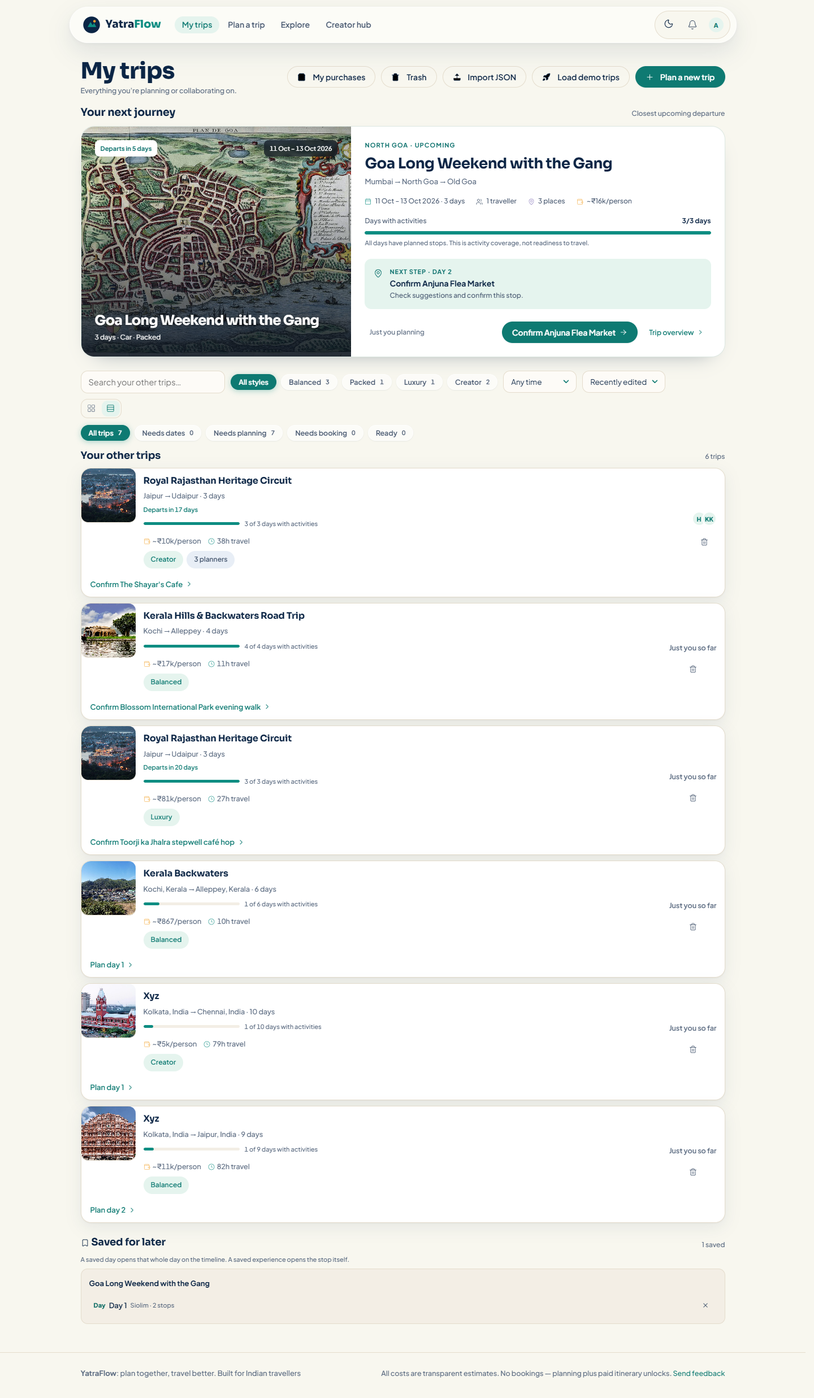
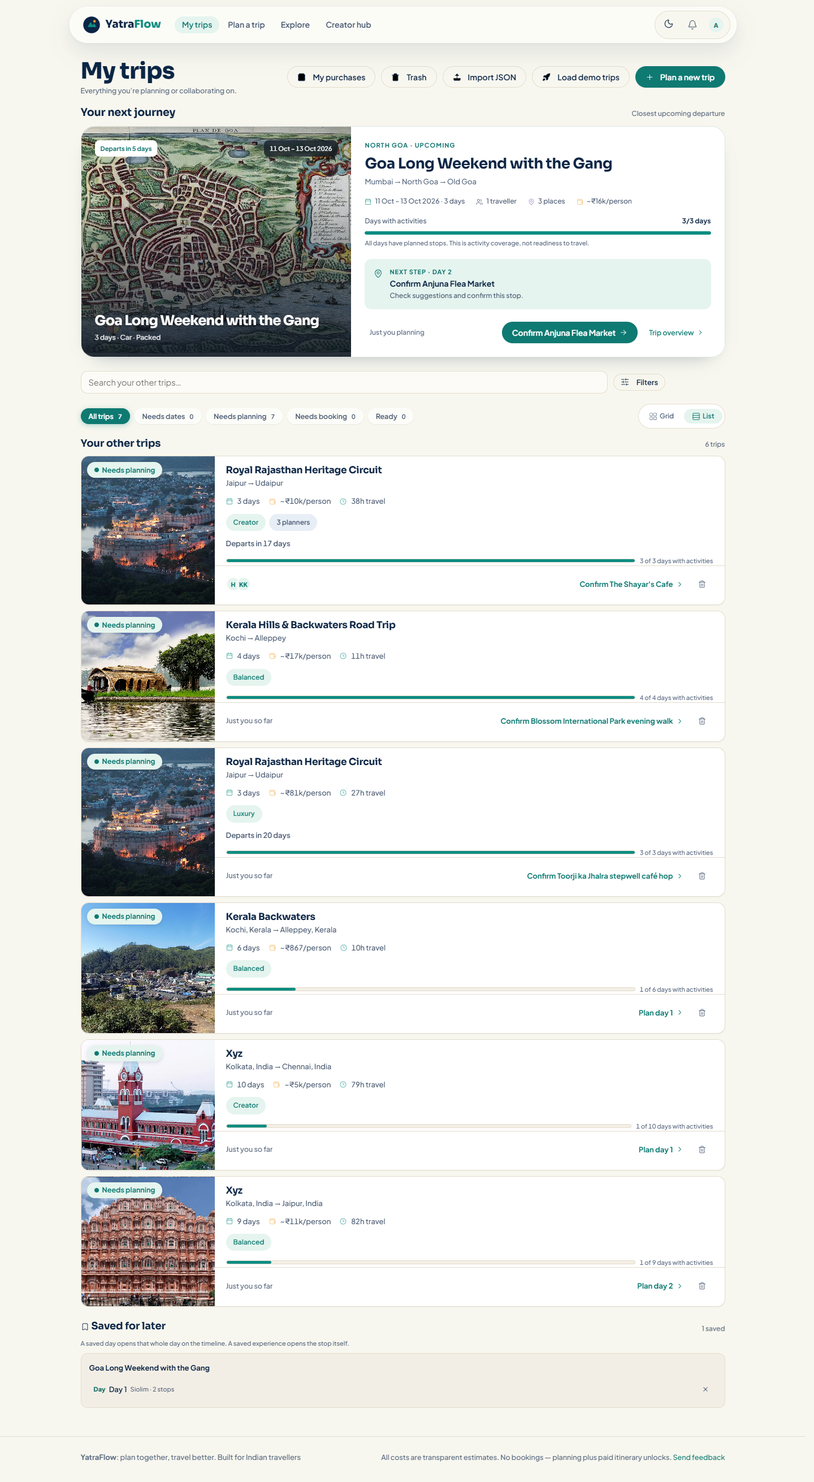
fix(trips): the view switch belongs on the tab row, and both switches move
The Grid/List control closed the wrapping filter bar, so it wrapped onto
a line of its own at every width - away from the tabs it belongs to. And
neither switch read as motion: the layout swap resized every card between
two frames, while the route entrance kept a 550ms clock but spent 63% of
its travel in the first 55ms.

- the switch moves onto the status-tab row as a labelled PillNav segment,
  right-aligned, dropping below the tabs when the width will not hold
  both. That is the mockup's own viewbar rule, measured at 1920/1100/390
  before it was written down.
- style, when and sort move behind one Filters dropdown, which is what
  let the bar stop wrapping. It opens and dismisses like the map's idea
  filters, and an inner Select's Escape closes only its own list.
- the grid is keyed by the layout, so a switch replays the cards' own
  entrance cascade instead of a snap.
- routeIn drops its raw `.55s` and cubic-bezier(.22,1,.36,1) for
  --motion-slow + --ease-out, and its grandfathered baseline entry is
  deleted - the gate's "no longer reproduces" message, acted on.
- CODING_STANDARDS 6am corrected: the ratchet keys are declaration text,
  not `styles.css:<line>`, so a comment line above a rule is safe and a
  migrated legacy value must have its entry deleted.

Measured at 1440 and 390: the seg shares the tabs' row, the glider slides
through 24 distinct boxes, the cards' opacity animates 0->1 on a switch,
[…]

diff --git a/src/pages/TripsList.tsx b/src/pages/TripsList.tsx
@@ -1,6 +1,6 @@
 // ============ My trips ============
-import { useEffect, useMemo, useState } from 'react'
-import { ArrowRight, Calendar, ChevronRight, Clock, Compass, LayoutGrid, MapPin, Plus, Rocket, Rows3, ShoppingBag, Trash2, Users, Wallet } from 'lucide-react'
+import { useEffect, useMemo, useRef, useState } from 'react'
+import { ArrowRight, Calendar, ChevronRight, Clock, Compass, LayoutGrid, MapPin, Plus, Rocket, Rows3, ShoppingBag, SlidersHorizontal, Trash2, Users, Wallet } from 'lucide-react'
 import { InlineIcon, MetaIcon } from '../components/icons'
 import { useTrips, useTrashedTrips, useUsers, useSessionUserId, useSliceReads, useTrashLoaded, useTrashFailed, tripsForUser, trashTrip, restoreTrashedTrip, restoreTrashedTripById, permanentlyDeleteTrip, fetchTrashedTrips, rereadTrips, addDemoTrips } from '../store/store'
 import { computeTotals, formatInrShort } from '../lib/engine'
@@ -8,6 +8,7 @@ import { nextTripStep, nextStepRoute, plannedDayRatio, statusBucket, isStatusBuc
 import { cap } from '../lib/labels'
 import { Avatar, Chip, EmptyState, toast, undoToast, ConfirmDialog } from '../components/ui'
 import { Select } from '../components/Select'
+import { PillNav } from '../components/PillNav'
 import { loadDraft, draftIsWorthKeeping, draftAgeLabel } from '../lib/createDraft'
 import { readinessFromDraft } from '../lib/createReadiness'
 import { createFunnelOn } from '../lib/featureFlags'
@@ -137,6 +138,38 @@ export function TripsListPage({ onNavigate }: { onNavigate: (r: string) => void 
     setLayout(v)
     savePref(VIEW_PREF, v)
   }
+
+  // MR4. Style, when and sort sit behind one dropdown. When they were always
+  // open they wrapped onto their own lines at every width, and Grid|List — the
+  // last item in that wrapping row — was the control that got pushed off. The
+  // button carries a count, so a filtered list can always say why it is short
+  // without the user opening anything.
+  const [filtersOpen, setFiltersOpen] = useState(false)
+  const filtersRef = useRef<HTMLDivElement>(null)
+  const filtersBtnRef = useRef<HTMLButtonElement>(null)
+  const refineCount = (style !== 'all' ? 1 : 0) + (when !== 'all' ? 1 : 0) + (sortKey !== 'recent' ? 1 : 0)
+  useEffect(() => {
+    if (!filtersOpen) return
+    // Same dismissal pair the Select uses: a mousedown outside closes it, and
+    // Escape closes it and hands focus back to the button that opened it.
+    // A Select's own Escape calls stopPropagation, so dismissing its menu
+    // inside this popover leaves the popover open — the key that closes the
+    // innermost surface must not also close the surface around it.
+    function onDocDown(e: MouseEvent) {
+      if (!filtersRef.current?.contains(e.target as Node)) setFiltersOpen(false)
+    }
+    function onKey(e: KeyboardEvent) {
+      if (e.key !== 'Escape') return
+      setFiltersOpen(false)
+      filtersBtnRef.current?.focus()
+    }
+    document.addEventListener('mousedown', onDocDown)
+    document.addEventListener('keydown', onKey)
+    return () => {
+      document.removeEventListener('mousedown', onDocDown)
+      document.removeEventListener('keydown', onKey)
+    }
+  }, [filtersOpen])
 
   // MR6/#648 reads one clock for the whole page, so every card agrees on
   // "today" — and the page moves to the next day at local midnight, or when it
@@ -368,63 +401,84 @@ export function TripsListPage({ onNavigate }: { onNavigate: (r: string) => void 
             />
           )}
 
-          {/* ---- Search + style chips + when/sort selects (Explore's pattern) ---- */}
+          {/* ---- Search, with the three refinements behind one dropdown ---- */}
           <div className="trips-toolbar" style={{ marginBottom: 18 }}>
             <input className="input trips-search" placeholder={!hasFilters && featuredTrip ? 'Search your other trips…' : 'Search places or stops…'}
               aria-label="Search your trips" value={q} onChange={e => setQ(e.target.value)} />
-            <div className="explore-chips" role="group" aria-label="Travel style">
-              <button className={`chip clickable-chip ${style === 'all' ? 'on-teal' : ''}`}
-                aria-pressed={style === 'all'} onClick={() => setStyle('all')}>All styles</button>
-              {TRAVEL_STYLES.filter(s => styleCounts.get(s)).map(s => (
-                <button key={s} className={`chip clickable-chip ${style === s ? 'on-teal' : ''}`}
-                  aria-pressed={style === s} onClick={() => setStyle(style === s ? 'all' : s)}>
-                  {cap(s)} <span className="chip-count">{styleCounts.get(s)}</span>
-                </button>
-              ))}
+            <div className="trips-filters" ref={filtersRef}>
+              <button type="button" className="btn btn-outline btn-sm" ref={filtersBtnRef}
+                aria-expanded={filtersOpen} aria-controls="trips-filters-pop"
+                onClick={() => setFiltersOpen(o => !o)}>
+                <InlineIcon icon={SlidersHorizontal} size={15} gap={6} />Filters{refineCount > 0 ? ` (${refineCount})` : ''}
+              </button>
+              {filtersOpen && (
+                <div className="trips-filters-pop" id="trips-filters-pop" role="group" aria-label="Refine your trips">
+                  <p className="trips-filters-label">Travel style</p>
+                  <div className="explore-chips" role="group" aria-label="Travel style">
+                    <button className={`chip clickable-chip ${style === 'all' ? 'on-teal' : ''}`}
+                      aria-pressed={style === 'all'} onClick={() => setStyle('all')}>All styles</button>
+                    {TRAVEL_STYLES.filter(s => styleCounts.get(s)).map(s => (
+                      <button key={s} className={`chip clickable-chip ${style === s ? 'on-teal' : ''}`}
+                        aria-pressed={style === s} onClick={() => setStyle(style === s ? 'all' : s)}>
+                        {cap(s)} <span className="chip-count">{styleCounts.get(s)}</span>
+                      </button>
+                    ))}
+                  </div>
+                  <Select value={when} onChange={v => setWhen(v as WhenKey)} aria-label="When"
+                    options={[
+                      { value: 'all', label: 'Any time' },
+                      { value: 'upcoming', label: 'Upcoming & live' },
+                      { value: 'past', label: 'Past trips' },
+                      { value: 'draft', label: 'Drafts' },
+                    ]} />
+                  <Select value={sortKey} onChange={v => setSortKey(v as SortKey)} aria-label="Sort by"
+                    options={[
+                      { value: 'recent', label: 'Recently edited' },
+                      { value: 'name', label: 'Name A–Z' },
+                      { value: 'length-desc', label: 'Longest first' },
+                      { value: 'budget-asc', label: 'Budget: low → high' },
+                      { value: 'budget-desc', label: 'Budget: high → low' },
+                    ]} />
+                </div>
+              )}
             </div>
-            <Select value={when} onChange={v => setWhen(v as WhenKey)} aria-label="When"
-              options={[
-                { value: 'all', label: 'Any time' },
-                { value: 'upcoming', label: 'Upcoming & live' },
-                { value: 'past', label: 'Past trips' },
-                { value: 'draft', label: 'Drafts' },
-              ]} />
-            <Select value={sortKey} onChange={v => setSortKey(v as SortKey)} aria-label="Sort by"
-              options={[
-                { value: 'recent', label: 'Recently edited' },
-                { value: 'name', label: 'Name A–Z' },
-                { value: 'length-desc', label: 'Longest first' },
-                { value: 'budget-asc', label: 'Budget: low → high' },
-                { value: 'budget-desc', label: 'Budget: high → low' },
-              ]} />
             {/* always mounted so the row doesn't shift when it appears mid-typing */}
             {/* "Clear filters" (review finding 4): the empty state's action said
                 "Clear filters" while this ghost button said "Clear" — the same
                 reset under two names, both once visible in one frame. */}
             <button className="btn btn-ghost btn-sm" style={{ visibility: hasFilters ? 'visible' : 'hidden' }} onClick={clearFilters}>Clear filters</button>
-            {/* MR4 — grid or list. A labelled pair rather than one cycling button,
-                so the current choice is readable without pressing it first. */}
-            <div className="view-toggle" role="group" aria-label="Card layout">
-              <button className={`view-toggle-btn${layout === 'grid' ? ' on-teal' : ''}`}
-                aria-pressed={layout === 'grid'} aria-label="Grid view" title="Grid view"
-                onClick={() => pickLayout('grid')}><LayoutGrid size={15} aria-hidden /></button>
-              <button className={`view-toggle-btn${layout === 'list' ? ' on-teal' : ''}`}
-                aria-pressed={layout === 'list'} aria-label="List view" title="List view"
-                onClick={() => pickLayout('list')}><Rows3 size={15} aria-hidden /></button>
-            </div>
           </div>
 
           <p className="sr-only" role="status">{trips.length} {trips.length === 1 ? 'trip matches' : 'trips match'}</p>
 
-          {/* MR3 — five filters, counted from the unfiltered-by-status set. Same
-              chip row the style chips above use, so it reads as one toolbar. */}
-          <div className="explore-chips trips-status-tabs" role="group" aria-label="Trip status">
-            {STATUS_FILTERS.map(f => (
-              <button key={f.id} className={`chip clickable-chip ${status === f.id ? 'on-teal' : ''}`}
-                aria-pressed={status === f.id} onClick={() => pickStatus(f.id)}>
-                {f.label} <span className="chip-count">{statusCounts.get(f.id) ?? 0}</span>
-              </button>
-            ))}
+          {/* MR3 — five filters, counted from the unfiltered-by-status set.
+              MR4 — the Grid/List control shares THIS row, right-aligned, the way
+              the mockup's viewbar pairs its status tabs with its view segment.
+              It used to close the wrapping toolbar above, which parked it alone
+              on a line of its own at every width, away from the tabs it belongs
+              to and from the grid it arranges. */}
+          <div className="trips-viewbar">
+            <div className="explore-chips trips-status-tabs" role="group" aria-label="Trip status">
+              {STATUS_FILTERS.map(f => (
+                <button key={f.id} className={`chip clickable-chip ${status === f.id ? 'on-teal' : ''}`}
+                  aria-pressed={status === f.id} onClick={() => pickStatus(f.id)}>
+                  {f.label} <span className="chip-count">{statusCounts.get(f.id) ?? 0}</span>
+                </button>
+              ))}
+            </div>
+            {/* PillNav, not a plain pair of buttons: its glider slides between
+                the two segments (MOTION-TOKENS' toggle-glider pattern), so the
+                switch reads as one movement instead of two backgrounds
+                swapping. Labelled, so the current choice is readable without
+                pressing it first. */}
+            <PillNav activeKey={layout} className="view-toggle trips-seg" role="group" aria-label="Card layout">
+              <button className={`view-toggle-btn${layout === 'grid' ? ' on-teal' : ''}`} data-pill-key="grid"
+                aria-pressed={layout === 'grid'} onClick={() => pickLayout('grid')}>
+                <LayoutGrid size={15} aria-hidden />Grid</button>
+              <button className={`view-toggle-btn${layout === 'list' ? ' on-teal' : ''}`} data-pill-key="list"
+                aria-pressed={layout === 'list'} onClick={() => pickLayout('list')}>
+                <Rows3 size={15} aria-hidden />List</button>
+            </PillNav>
           </div>
 
           {!hasFilters && featuredTrip && displayTrips.length > 0 && (
@@ -442,7 +496,14 @@ export function TripsListPage({ onNavigate }: { onNavigate: (r: string) => void 
               action={<button className="btn btn-outline" onClick={clearFilters}>Clear filters</button>}
             />
           ) : (
-            <div className={`explore-grid${layout === 'list' ? ' as-list' : ''}`}>
+            /* MR4's other half: the grid is keyed by the layout, so switching
+               remounts the cards and replays their `.trip-enter` cascade.
+               Without the key React reuses the same nodes and the whole grid
+               re-lays out between two frames — 369px-wide cards becoming
+               1140px-wide ones with nothing in between — which is the snap this
+               key exists to remove. The remount is cheap: the covers resolve
+               from the thumb cache. */
+            <div key={layout} className={`explore-grid${layout === 'list' ? ' as-list' : ''}`}>
               {displayTrips.map((t, i) => {
               const totals = computeTotals(t)
               const others = (t.members ?? []).filter(m => m.userId !== meId)

diff --git a/src/styles.css b/src/styles.css
@@ -3758,8 +3758,16 @@ body, .topnav, .glass, .board, .modal, .toast {
 }
 
 /* Route-level entrance: every main page change (My trips ↔ Explore ↔ a trip)
-   replays the same gentle fade+rise as workspace tab switches. */
-.route-panel { animation: routeIn .55s cubic-bezier(.22, 1, .36, 1) backwards; }
+   replays the same gentle fade+rise as workspace tab switches.
+   The duration is a token now, not the raw `.55s` this rule shipped with. That
+   rule kept its 550ms clock but paired it with cubic-bezier(.22, 1, .36, 1),
+   a curve whose peak slope puts 63% of the travel into the first 55ms — so the
+   navigation read as an instant snap. Frame samples of /trips -> /trip/:id
+   agreed: the trip page's own content lands ~217ms after the click, past the
+   point where the old curve had already finished. The arrival looked like a
+   pop. On --motion-slow the fade is still running when the content arrives,
+   and the rise is part of one motion instead of ahead of it. */
+.route-panel { animation: routeIn var(--motion-slow) var(--ease-out) backwards; }
 
 /* Drag-and-drop feedback: the carried card's original becomes a dashed slot
    (above), while any valid drop target breathes a teal ring so the landing
@@ -8951,4 +8959,79 @@ button.day-slot-top { background: none; border: 0; cursor: pointer; font: inheri
   .trips-page .trip-card-media .itin-emoji { transition: none; }
   .trips-page .itin-card:hover .trip-card-media .itin-emoji { transform: none; }
 }
+
+/* ---------- My Trips — the viewbar, the segmented view control and the
+   filters dropdown ----------
+   Appended at the file's end, like the other MR blocks.
+   The arrangement is the mockup's: its `.viewbar` puts the status tabs and the
+   view segment on ONE row with the segment right-aligned (`.seg--app` carries
+   `margin-left: auto`), and its segment is labelled rather than icon-only.
+   Ours closed the wrapping `.trips-toolbar` instead, so it was the control that
+   got pushed onto a line of its own at every width — away from the tabs it
+   belongs to and from the grid it arranges. Shape ported; the colours are still
+   ours (ADR 0002 keeps the tokens). */
+
+/* the mockup's `.viewbar`: gap 14, bottom padding 14 — both on our ladder */
+.trips-viewbar {
+  display: flex; align-items: center; flex-wrap: wrap;
+  gap: var(--space-6); margin: 0 0 var(--space-7);
+}
+/* the tabs carry their own bottom margin; inside the viewbar the row's margin
+   is what spaces the row from the shelf below it */
+.trips-viewbar .trips-status-tabs { margin: 0; }
+.trips-seg {
+  margin-left: auto;
+  display: inline-flex; gap: var(--space-2); padding: var(--space-2);
+  border: 1px solid var(--line); border-radius: 999px; background: var(--card);
+}
+/* Overrides the 32x28 icon square the control had when it was icon-only: a
+   labelled segment sizes itself, and the label is what makes the current
+   choice readable without pressing it first. */
+.trips-seg .view-toggle-btn {
+  display: inline-flex; align-items: center; gap: var(--space-2);
+  width: auto; height: auto;
+  padding: var(--space-4) var(--space-6);
+  border: 0; border-radius: 999px; background: transparent;
+  color: var(--text-3); font: inherit; font-size: 12px; font-weight: 600;
+  cursor: pointer;
+  transition: color var(--motion-fast) var(--ease-out);
+}
+.trips-seg .view-toggle-btn:hover { background: transparent; color: var(--text); }
+/* Ink on the glider, never a background on the segment: the glider paints the
+   active fill, and a background that pops on the segment while the glider is
+   still sliding is the two-step switch the glider exists to remove. Light
+   mode's glider is pale teal, so the label keeps deep-teal ink; dark mode's is
+   saturated and wants dark ink — the pair every pill nav already uses. */
+.trips-seg .view-toggle-btn.on-teal,
+.trips-seg .view-toggle-btn.on-teal:hover { background: transparent; box-shadow: none; color: var(--yf-teal-700); }
+[data-theme='dark'] .trips-seg .view-toggle-btn.on-teal { color: #06251f; }
+.trips-seg .view-toggle-btn:focus-visible { outline: none; box-shadow: var(--ring); }
+
+/* The Filters trigger and its menu. The TOOLBAR claims the rung, not the menu:
+   a popup cannot raise itself out of a host that paints its own stacking
+   context, and the Explore filter bar shipped broken exactly that way — the
+   menu's last rows painted over by the cards below while the menu's own
+   z-index read a healthy 5. --z-frost (5) sits far below the glass topnav's
+   --z-nav-glass (60), so this lifts the bar over the cards and nothing else. */
+.trips-page .trips-toolbar { position: relative; z-index: var(--z-frost); }
+.trips-filters { position: relative; display: inline-flex; }
+.trips-filters-pop {
+  position: absolute; top: calc(100% + var(--space-3)); left: 0; z-index: 30;
+  display: flex; flex-direction: column; gap: var(--space-6);
+  width: min(320px, calc(100vw - var(--space-9)));
+  padding: var(--space-6);
+  background: var(--popover-bg); border: 1px solid var(--popover-border);
+  border-radius: 12px; box-shadow: var(--shadow-soft);
+  animation: popover-in var(--motion-med) var(--ease-glide);
+}
+.trips-filters-label {
+  margin: 0; font-size: var(--text-xs); font-weight: 700;
+  letter-spacing: .04em; text-transform: uppercase; color: var(--text-3);
+}
+.trips-filters-pop .explore-chips { margin-bottom: 0; }
+/* the two selects stack full width inside the menu, where the toolbar held them
+   in a min-width row */
+.trips-filters-pop .cselect { display: block; }
+.trips-filters-pop .cselect .select { width: 100%; min-width: 0; }
+@media (prefers-reduced-motion: reduce) { .trips-filters-pop { animation: none; } }
 

diff --git a/ROADMAP.md b/ROADMAP.md
@@ -478,20 +478,32 @@ Neither decision touches a colour value, per [ADR 0002](docs/adr/0002-mockup-pal
     `src/lib/tripNextStep.ts` as `STATUS_FILTERS` and `statusBucket`, so it is unit-tested
     without a DOM and cannot drift from the steps it groups. Counts come from the set the
     search and the other filters leave behind, so a tab says what clicking it would show.
-    **Not yet screened at 1440px or 390px.**
+  - **Accepted 2026-10-06.** The tab row was screened with the view switch beside it, at both
+    widths: [`docs/screenshots/mr4-viewbar-1440.png`](docs/screenshots/mr4-viewbar-1440.png) and
+    [`mr4-viewbar-390.png`](docs/screenshots/mr4-viewbar-390.png). Six trips were on screen, and
+    the counts matched the trips under each tab.
 - [x] **MR4. Grid and list view toggle.** `src/pages/TripsList.tsx`. Both layouts, persisted the
   same way as MR3.
-  - **Landed 2026-10-05, review still owed.** A labelled pair in the toolbar, not one cycling
-    button, so the current choice is readable without pressing it first. List mode lays each
-    card out as one row. Persisted through the same `loadPref`/`savePref` pair MR3 uses.
+  - **Landed 2026-10-05, review still owed.** A labelled pair, not one cycling button, so the
+    current choice is readable without pressing it first. List mode lays each card out as one
+    row. Persisted through the same `loadPref`/`savePref` pair MR3 uses.
   - **The row's cover is the mockup's now (2026-10-06).** The row ran a 96px thumbnail inside
     the card's link, and the mockup's row runs a 236px cover the card's full height. The cover
     must sit outside the body's link to span the row, so it is its own link now. It stays out
     of the tab order and out of the accessibility tree, and the body link keeps the name.
+  - **The switch moved onto the status-tab row, 2026-10-06.** It used to close the wrapping
+    filter bar, so it wrapped onto a line of its own at every width. The mockup's own bar pairs
+    the tabs and the view segment: one row while the width holds both, the segment dropped below
+    and right-aligned when it does not (measured at 1920 and 1100, and at its own 390). Ours does
+    the same through `flex-wrap` plus `margin-left: auto` on the segment, and it labels the two
+    choices. `PillNav` slides the glider between them, and the cards re-enter on a switch because
+    the grid is keyed by the layout. The style, when and sort controls left that bar for one
+    `Filters` dropdown, which is what stopped the wrap.
   - **Acceptance (2026-10-06):** screened at 1440px and 390px, in
     [`docs/screenshots/mr4-list-1440.png`](docs/screenshots/mr4-list-1440.png) and
     [`mr4-list-390.png`](docs/screenshots/mr4-list-390.png). List mode engaged at both widths and
-    drew 6 rows. No row pushed the page sideways.
+    drew 6 rows. No row pushed the page sideways. The dropdown was screened open at 1440px in
+    [`docs/screenshots/mr4-filters-open-1440.png`](docs/screenshots/mr4-filters-open-1440.png).
 - [x] **MR5. Cover-photo prompt and solo-traveller line.** `src/pages/TripsList.tsx`. Show
   "Add a cover photo" when a trip has none. Show avatars, or "Just you so far", in the card foot.
   - **Satisfied without new code, 2026-10-05 — checked against `src/`, not assumed.** Both halves

diff --git a/CHANGELOG.md b/CHANGELOG.md
@@ -173,6 +173,20 @@ All notable changes to YatraFlow. Format loosely follows [Keep a Changelog](http
 
 ### Changed
 
+- **My Trips puts the view switch on the status-tab row and the style, when and sort controls
+  behind one dropdown.** The Grid/List control used to close the wrapping filter bar, so it
+  wrapped onto a line of its own at every width, away from the tabs it belongs to. It now sits on
+  the status-tab row as a labelled segmented control, right-aligned, and drops below the tabs
+  when the width will not hold both. Its glider slides between the two choices instead of two
+  backgrounds swapping. The three refinements moved behind a `Filters` button that carries its own count, so
+  a filtered list still says why it is short. That button opens a menu like the map's idea
+  filters: Escape closes it and returns focus to the button, a click outside closes it, and a
+  Select inside it closes only its own list. Switching grid to list replays the cards' own
+  entrance cascade instead of changing every card's size between two frames. The page-to-page
+  entrance reads as motion now as well: it kept a 550ms clock but spent 63% of its travel in the
+  first 55ms, which is why a navigation looked like a snap, and it runs on `--motion-slow` with
+  the fade still under way while the next page's content arrives.
+
 - **The My Trips cards now use the mockup's card style, in both list and grid view.** Each
   card has the mockup's 14px radius, its hairline resting shadow and its 16/8.4 cover. A
   status pill sits at the cover's top left. The pill reads the same status list the filter

diff --git a/CODING_STANDARDS.md b/CODING_STANDARDS.md
@@ -678,8 +678,19 @@ anywhere in this repo means the entry labelled `6b` below.
    and the numbers inside `calc()` count too — `padding-left: calc(96px + 14px)`
    fails on the 96. Use `var(--space-*)` instead of the arithmetic.
    `subPixelType` refuses a `font-size` below 11px, and `var(--text-xs)` is the
-   only size token left. Append new blocks at EOF: the contrast and duration
-   entries are keyed by line number.
+   only size token left. **Every ratchet key is declaration text now, not a line
+   number.** Each key in `tests/design-system-baseline.json` is the offending
+   declaration's own text, with the old `styles.css:<line>` prefix dropped; the
+   test file's header records why that changed. Edit a rule where it sits. Add
+   comment lines above it. A shift moves nothing. Only a change to what a rule
+   *declares* trips a gate. So append at EOF when that is where the change
+   belongs — not to protect the baseline.
+   **A migrated legacy value fails the gate until you delete its entry (learned
+   2026-10-06).** Replacing `.route-panel`'s raw `.55s` with `var(--motion-slow)`
+   made the gate report `.route-panel — animation: .55s` under "these no longer
+   reproduce — delete them from design-system-baseline.json". That message is
+   the cleanup the ratchet asks for, not a regression. Delete the line. Never
+   raise the baseline.
 
 ## 2. Conventions (`AGENTS.md` §4)
 
